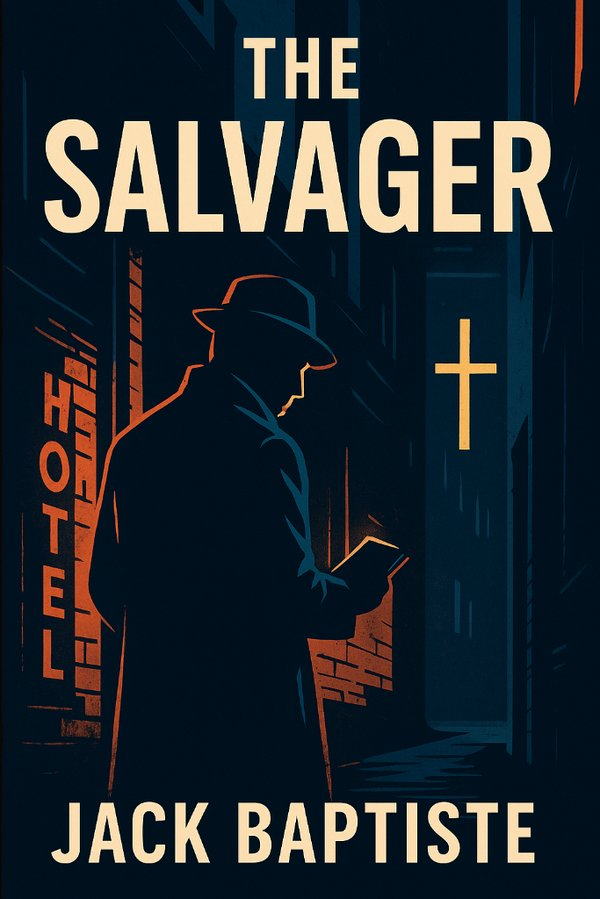
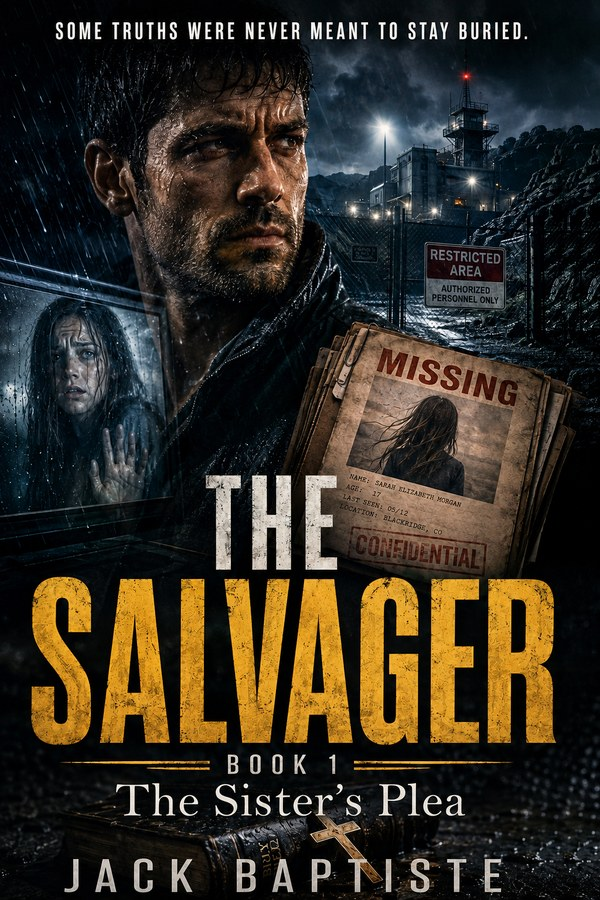
Update Salvager Books 1-3 covers to match Payhip (new artwork); Book 4 already current

diff --git a/index-original.html b/index-original.html
@@ -989,7 +989,7 @@ var books = [
         subtitle: "The Salvager Series, Book 1",
         genre: "Fiction / Thriller",
         price: "$3.99",
-        cover: "covers/book1-sisters-plea.jpg?v=6",
+        cover: "covers/book1-sisters-plea.jpg?v=7",
         description: "When Claire Whitman asks Zeke Carter to find her brother Marcus, she sets in motion a tense, atmospheric thriller about manipulation, belonging, and the cost of saving people who have to choose to be saved.",
         bestseller: false,
         payhip_url: "https://bobsuniverse.love/b/cbymu"
@@ -1047,7 +1047,7 @@ Zeke carried his mug to the machine beside him. "Bad odds," he said.
         subtitle: "The Salvager Series, Book 2",
         genre: "Fiction / Thriller",
         price: "$3.99",
-        cover: "covers/book2-runaway-daughter.jpg?v=6",
+        cover: "covers/book2-runaway-daughter.jpg?v=7",
         description: "Seventeen-year-old Leah Whitfield is not missing &mdash; she's chosen. She's found her voice inside The Canvas, an art collective run by Seraphine Dax: magnetic, barefoot, dangerous.",
         bestseller: false,
         payhip_url: "https://bobsuniverse.love/b/cNnI5"
@@ -1133,7 +1133,7 @@ But she didn't tear it up either.`
         subtitle: "The Salvager Series, Book 3",
         genre: "Fiction / Thriller",
         price: "$3.99",
-        cover: "covers/book3-network.jpg?v=6",
+        cover: "covers/book3-network.jpg?v=7",
         description: "When Evan Rourke returns from six weeks missing speaking of 'borrowed clarity,' Zeke Carter recognizes the signs of a precision-engineered manipulation network.",
         bestseller: false,
         payhip_url: "https://bobsuniverse.love/b/gJn2b"

diff --git a/index.html b/index.html
@@ -29,7 +29,7 @@ html,body{margin:0;padding:0;width:100%;height:100%;overflow:hidden;background:#
     }
   });
 
-  frame.src='index-original.html?v=20261017-1';
+  frame.src='index-original.html?v=20261023-1';
 
   // Forward storefront scroll requests to the Payhip overlay when embedded there.
   window.addEventListener('message',function(e){
